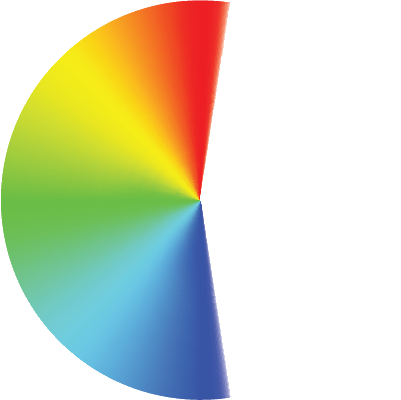
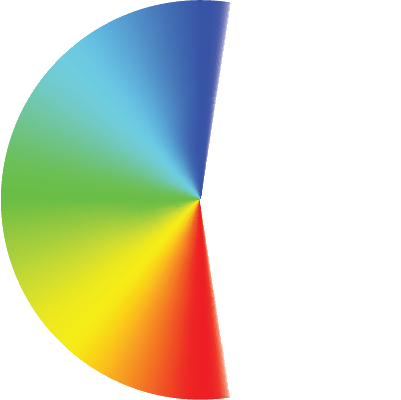
add option to make polar angle symmetric across hemispheres, add polar angle legend
follow the polar angle convention from Benson et al 2017 "The Human Connectome Project 7 Tesla retinotopy dataset" where UVM -> blue, LVM -> red, and horizonal azimuth -> green in both hemispheres

diff --git a/main.js b/main.js
@@ -20,7 +20,7 @@ function hsl_to_rgb(h, s, l) {
         r = 0; g = x1; b = c;
     } else if (240 <= h && h < 300) {
         r = x1; g = 0; b = c;
-    } else if (300 <= h && h < 360) {
+    } else if (300 <= h && h <= 360) {
         r = c; g = 0; b = x1;
     }
     r = Math.round((r + m) * 255);
@@ -28,6 +28,46 @@ function hsl_to_rgb(h, s, l) {
     b = Math.round((b + m) * 255);
     //color.setXYZ(i, r, g, b);
     return {r,g,b};
+}
+
+function polar_angle_make_symmetric(val, data_type, hemi, sym) {
+    let h;
+    if (sym == true) {
+        if (data_type == 'vol') {
+            if (0 <= val && val < 90) {
+                return (4/3*val + 120);
+            } else if (90 <= val && val < 270) {
+                return (-4/3*val + 360);
+            } else if (270 <= val && val <= 360) {
+                return (4/3*val - 360);
+            }
+        }
+        else if (data_type == 'surf') {
+            if (hemi == 'lh') {
+                if (0 <= val && val < 90) {
+                    return (4/3*val + 120);
+                } else if (90 <= val && val < 270) {
+                    return (2/3*val + 180);
+                } else if (270 <= val && val <= 360) {
+                    return (4/3*val - 360);
+                }
+            } else if (hemi == 'rh') {
+                if (0 <= val && val < 90) {
+                    return (-2/3*val + 300);
+                } else if (90 <= val && val < 270) {
+                    return (-4/3*val + 360);
+                } else if (270 <= val && val <= 360) {
+                    return (-2/3*val + 540);
+                }
+            }
+        }
+    } else {
+        if(0 <= val && val < 240) {
+            return val + 120;
+        } else if(240 <= val && val <= 360) {
+            return -val + 480;
+        }
+    }
 }
 
 new Vue({
@@ -58,6 +98,7 @@ new Vue({
                 overlay_type: 'volume',
                 //overlay: 'r2',
                 r2_offset: 0,                  
+                symmetric_pang: true,
 
                 threshold_r2: false,
                 threshold_level: 0.15,
@@ -126,13 +167,20 @@ new Vue({
             <span>Zoom</span>
             <span>Pan</span>
             <br>
-            <img src="trans.png" height="50px"/>
+            <img src="controls.png" height="50px"/>
         </div>
         <div class="color-legend" v-if="legend.colors.length > 0 && gui.overlay != 'r2*varea'">
             <div class="color" v-for="color in legend.colors" :style="{'background-color': 'rgb('+color.r+','+color.g+', '+color.b+')'}"/>
             <br>
             <span class="min">{{legend.min.toFixed(2)}}</span>
             <span class="max">{{legend.max.toFixed(2)}}</span>
+        </div>
+        <div class="polar-angle-legend" v-if="gui.overlay == 'r2*polar_angle' && gui.symmetric_pang == true">
+            <span class="left"><img src="polarAngle_left.png" height="120px"/></span>
+            <span class="right"><img src="polarAngle_right.png" height="120px"/></span>
+        </div>
+        <div class="polar-angle-legend-360" v-if="gui.overlay == 'r2*polar_angle' && gui.symmetric_pang == false">
+            <span class="center"><img src="polarAngle_center.png" height="120px"/></span>
         </div>
         <div class="color-legend-varea" v-if="gui.overlay == 'r2*varea'">
             <div class="color" v-for="color in legend_varea.colors" :style="{'background-color': 'rgb('+color.r+','+color.g+', '+color.b+')'}"/>
@@ -233,6 +281,9 @@ new Vue({
             });
 
             overlay.add(this.gui, 'r2_offset', 0, 1).step(0.01).onChange(v=>{
+                this.update_color();
+            });
+            overlay.add(this.gui, 'symmetric_pang', true, false).onChange(v=>{
                 this.update_color();
             });
                         /*
@@ -427,8 +478,8 @@ new Vue({
                     vmax = Math.max(r2_lh.stats.max, r2_rh.stats.max);
                 }
 
-                set_color_surf.call(this, lh_color, r2_lh, v_lh);
-                set_color_surf.call(this, rh_color, r2_rh, v_rh);
+                set_color_surf.call(this, lh_color, r2_lh, v_lh, 'lh');
+                set_color_surf.call(this, rh_color, r2_rh, v_rh, 'rh');
 
                 break;
             }
@@ -441,6 +492,14 @@ new Vue({
                     h = 0;
                     s = 0;
                     l = map_value(i, 0, 256, 0, 1);
+                } else if(this.gui.overlay == "r2*polar_angle" && this.gui.symmetric_pang == false) {
+                    if(i <= 169) {
+                        h = map_value(i, 0, 169, 120, 360); // green to red
+                    } else {
+                        h = map_value(i, 170, 256, 0, 120); // red to green
+                    }
+                    s = 1;
+                    l = 0.5;
                 } else {
                     h = map_value(i, 0, 256, 0, 240); //red to blue
                     s = 1;
@@ -450,12 +509,22 @@ new Vue({
             }
 
                 
-
-            this.legend.min = vmin;
-            this.legend.max = vmax;
+            if(this.gui.overlay == "r2*polar_angle") {
+                if(this.gui.symmetric_pang == true) {
+                    this.legend.min = -90;
+                    this.legend.max = 90;
+                } else if(this.gui.symmetric_pang == false) {
+                    this.legend.min = 0;
+                    this.legend.max = 360;
+                }
+            } else {
+                this.legend.min = vmin;
+                this.legend.max = vmax;
+            }
 
             this.legend_varea.colors = [];
-            for(let i = 0;i < 13;++i) {
+            this.legend_varea.colors.push(hsl_to_rgb(0, 0.5, 0));
+            for(let i = 1;i < 13;++i) {
                 let h;
                 h = map_value(i, 0, 12, 0, 340); //red to purple
                 this.legend_varea.colors.push(hsl_to_rgb(h, 1, 0.5));
@@ -531,7 +600,13 @@ new Vue({
                             color.setXYZ(i, 50, 50, 100); 
                             continue;
                         }
-                        h = map_value(v_val, vmin, vmax, 0, 240); //red to blue
+                        if(this.gui.overlay == "r2*varea") {
+                            h = map_value(v_val, 0, 12, 0, 340); //red to purple
+                        } else if(this.gui.overlay == "r2*polar_angle") {
+                            h = polar_angle_make_symmetric(v_val, 'vol', 'both', this.gui.symmetric_pang);
+                        } else {
+                            h = map_value(v_val, vmin, vmax, 0, 240); //red to blue
+                        }
                         s = 1;
                         //if(i % 10000 == 0) console.log(v_val, r2_val, vx, vy, vz, h);
                     } else {
@@ -548,7 +623,7 @@ new Vue({
                 
             }
 
-            function set_color_surf(color, r2, v) {
+            function set_color_surf(color, r2, v, hemi) {
 
 
                 color.needsUpdate = true;
@@ -581,6 +656,8 @@ new Vue({
                         }
                         if(this.gui.overlay == "r2*varea") {
                             h = map_value(v_val, 0, 12, 0, 340); //red to purple
+                        } else if(this.gui.overlay == "r2*polar_angle") {
+                            h = polar_angle_make_symmetric(v_val, 'surf', hemi, this.gui.symmetric_pang);
                         } else {
                             h = map_value(v_val, vmin, vmax, 0, 240);
                         }

diff --git a/style.css b/style.css
@@ -67,6 +67,31 @@ float: left;
 .color-legend .max {
 float: right;
 }
+.polar-angle-legend {
+width: 256px;
+position: fixed;
+bottom: 40px;
+left: 5px;
+color: white;
+font-size: 8pt;
+}
+.polar-angle-legend .left {
+float: left;
+}
+.polar-angle-legend .right {
+float: right;
+}
+.polar-angle-legend-360 {
+width: 256px;
+position: fixed;
+bottom: 40px;
+left: 72px;
+color: white;
+font-size: 8pt;
+}
+.polar-angle-legend-360 .center {
+float: left;
+}
 .color-legend-varea {
 width: 256px;
 position: fixed;
